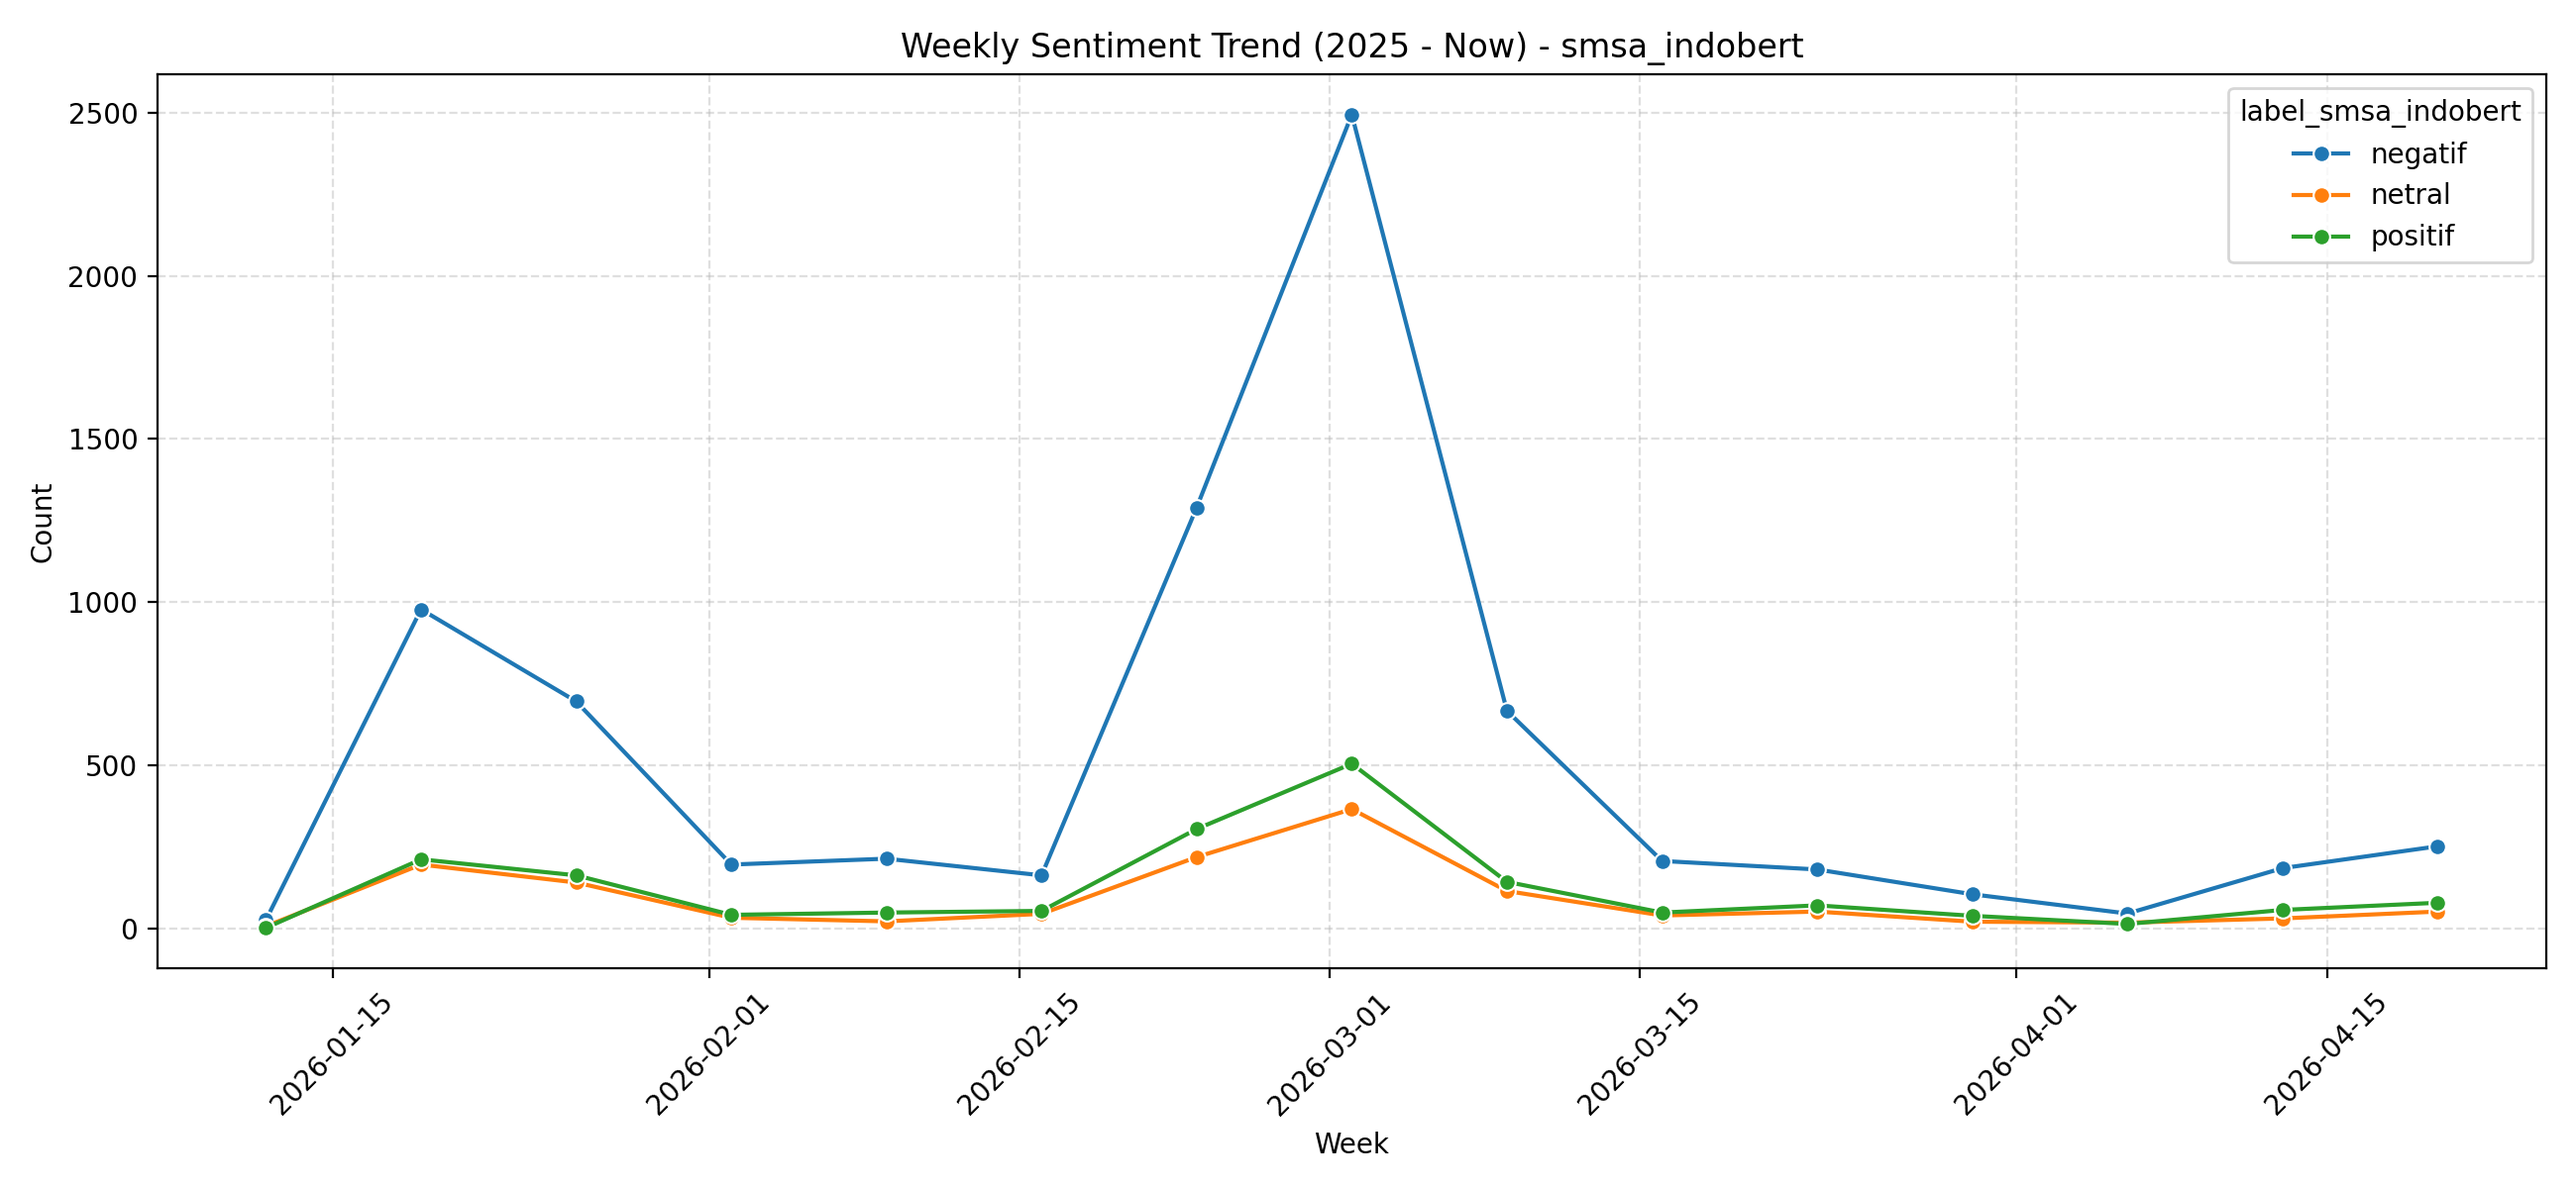
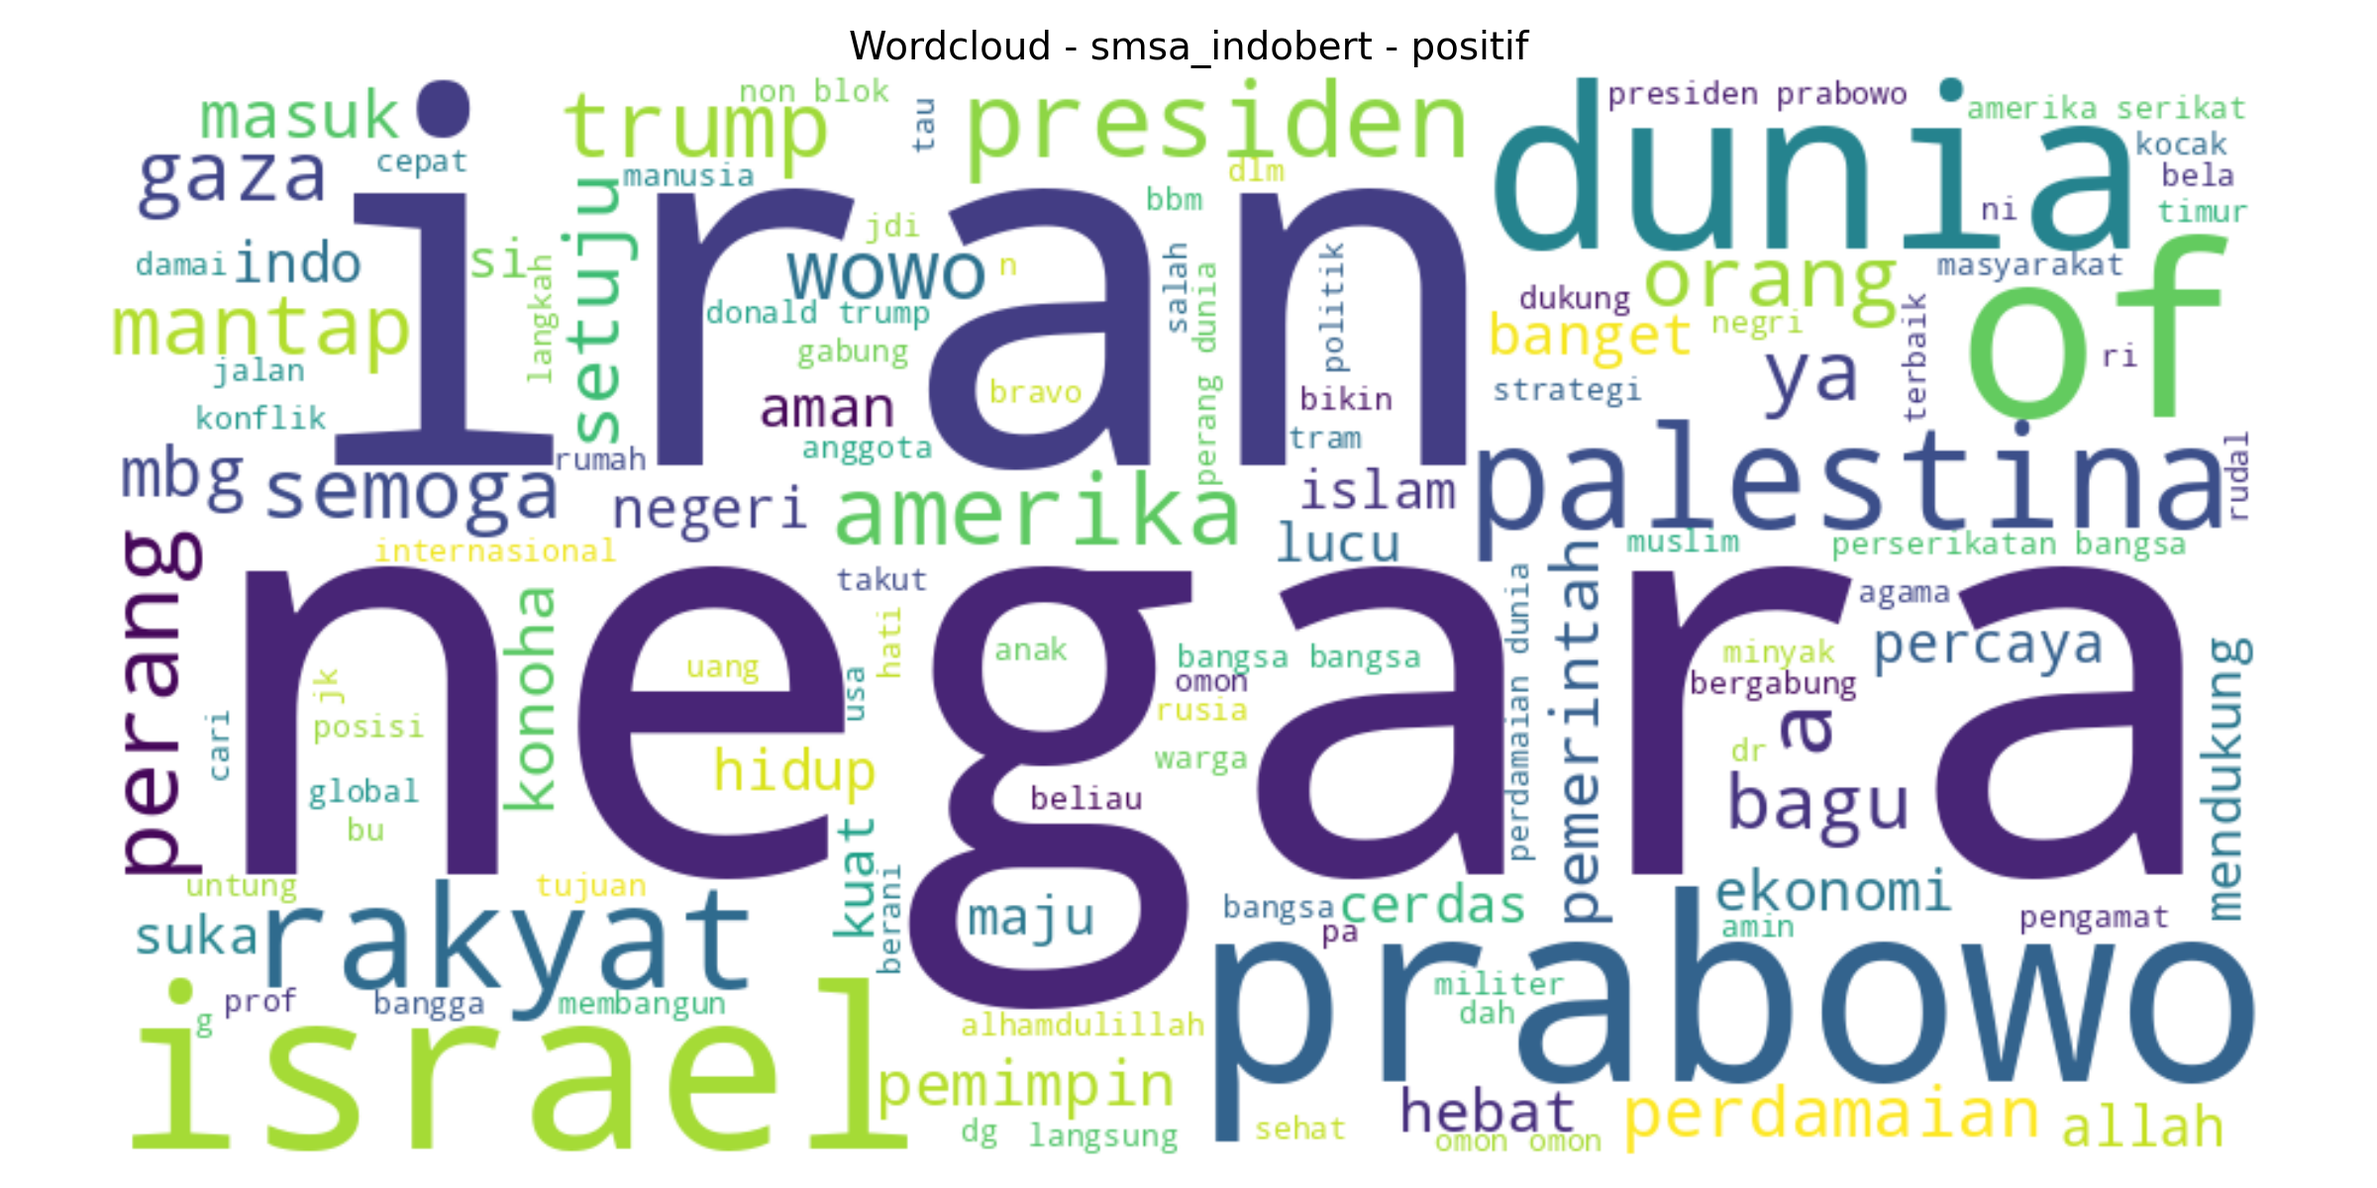
Update

diff --git a/index.html b/index.html
@@ -186,10 +186,10 @@ const PD=[
 {n:"YouTube Audience Sentiment Analytics",s:"YouTube Sentiment",img:"youtube-sentiment.png",t:"data",repo:"youtube-audience-sentiment-analytics",r:"Data Analyst / AI Developer",g:["YouTube API","IndoBERT","Pandas"],d:{id:"Pipeline dari YouTube Data API ke IndoBERT dan InSet Lexicon, menghasilkan wordcloud, tren sentimen mingguan, dan confusion matrix.",en:"Pipeline from YouTube Data API to IndoBERT and InSet Lexicon, producing a wordcloud, weekly sentiment trend and confusion matrix."}},
 {n:"Batik Keraton CNN Classification",s:"Batik CNN",img:"batik-cnn.png",t:"data",repo:"batik-cnn-classification",r:"Computer Vision / ML Engineer",g:["TensorFlow","Xception","CNN"],d:{id:"Transfer learning Xception lebih stabil daripada CNN kustom dalam mengenali empat motif batik keraton dari sekitar 1.800 gambar.",en:"Xception transfer learning was more stable than a custom CNN at recognising four royal batik motifs from about 1,800 images."}}];
 const PI=[
-{n:"LAN Network Management & IT Support, BTI UMS",s:"BTI UMS",img:"bti-ums.png",t:"it",repo:"",r:"IT Network Engineer Intern, Februari 2025",g:["Star LAN Topology","RJ45","Switch & AP","CLI"],d:{id:"Memasang jaringan LAN di beberapa fakultas dan gedung kampus, mendiagnosis gangguan dengan LAN tester dan CLI, serta membantu inventaris dan dokumentasi aset TI.",en:"Installed LAN across several faculties and campus buildings, diagnosed faults with a LAN tester and CLI, and helped keep IT asset inventory and documentation."}},
+{n:"LAN Network Management & IT Support, BTI UMS",s:"BTI UMS",img:"bti-ums.jpeg",t:"it",repo:"",r:"IT Network Engineer Intern, Februari 2025",g:["Star LAN Topology","RJ45","Switch & AP","CLI"],d:{id:"Memasang jaringan LAN di beberapa fakultas dan gedung kampus, mendiagnosis gangguan dengan LAN tester dan CLI, serta membantu inventaris dan dokumentasi aset TI.",en:"Installed LAN across several faculties and campus buildings, diagnosed faults with a LAN tester and CLI, and helped keep IT asset inventory and documentation."}},
 {n:"RFID Attendance System with Cloud & API",s:"RFID Attendance",img:"rfid-attendance.png",t:"it",repo:"rfid-attendance-system",r:"IoT & System Integration Engineer (Project Team Leader)",g:["Google Apps Script","Google Sheets","Twilio API"],d:{id:"Kartu terbaca dan tercatat sekitar 3 detik, data mengalir ke Google Sheets, dan notifikasi WhatsApp terkirim kurang dari 8 detik. Rekap manual dan titip absen hilang.",en:"Cards are read and logged in about 3 s, data flows to Google Sheets, and WhatsApp alerts arrive in under 8 s. Manual tallying and proxy attendance are gone."}},
 {n:"RSR E-Commerce Web Application",s:"RSR E-Commerce",img:"rsr-ecommerce.png",t:"it",repo:"rsr-ecommerce-web",r:"Full-Stack Web Developer (Team of 3)",g:["PHP","SQL","JavaScript"],d:{id:"Toko online dengan front-end responsif dan database relasional PHP/SQL: katalog, pencarian, keranjang, wishlist, hingga checkout.",en:"Online shop with a responsive front end and PHP/SQL relational database: catalogue, search, cart, wishlist and checkout."}},
-{n:"IoT Smart Classroom with Priority Control",s:"Smart Classroom",img:"smart-classroom.png",t:"it",repo:"smart-classroom-iot",r:"Lead Researcher, publikasi jurnal",g:["ESP32","Firebase RTDB","Flutter"],d:{id:"Logika prioritas Admin > Otomatis > Manual mencegah konflik kendali (100% uji) dan memangkas durasi operasional dari 35,5 menjadi 26,2 jam. Terbit di jurnal.",en:"Admin > Auto > Manual priority logic prevented control conflicts (100% of tests) and cut runtime from 35.5 h to 26.2 h. Published in a journal."}},
+{n:"IoT Smart Classroom with Priority Control",s:"Smart Classroom",img:"smart-classroom.jpg",t:"it",repo:"smart-classroom-iot",r:"Lead Researcher, publikasi jurnal",g:["ESP32","Firebase RTDB","Flutter"],d:{id:"Logika prioritas Admin > Otomatis > Manual mencegah konflik kendali (100% uji) dan memangkas durasi operasional dari 35,5 menjadi 26,2 jam. Terbit di jurnal.",en:"Admin > Auto > Manual priority logic prevented control conflicts (100% of tests) and cut runtime from 35.5 h to 26.2 h. Published in a journal."}},
 {n:"IoT Precision Automatic Feeding System",s:"Feeding System",img:"feeding-system.png",t:"it",repo:"precision-feeding-system",r:"Proyek skripsi, Lead Engineer",g:["ESP32","Firebase RBAC","Flutter"],d:{id:"Aplikasi Flutter dan Firebase dengan Role-Based Access Control serta logika fail-safe. Error takaran turun dari 21,0% menjadi 5,4%.",en:"Flutter and Firebase app with Role-Based Access Control and fail-safe logic. Dosing error fell from 21.0% to 5.4%."}}];
 const $=s=>document.querySelector(s);
 const RM=matchMedia("(prefers-reduced-motion:reduce)").matches;
